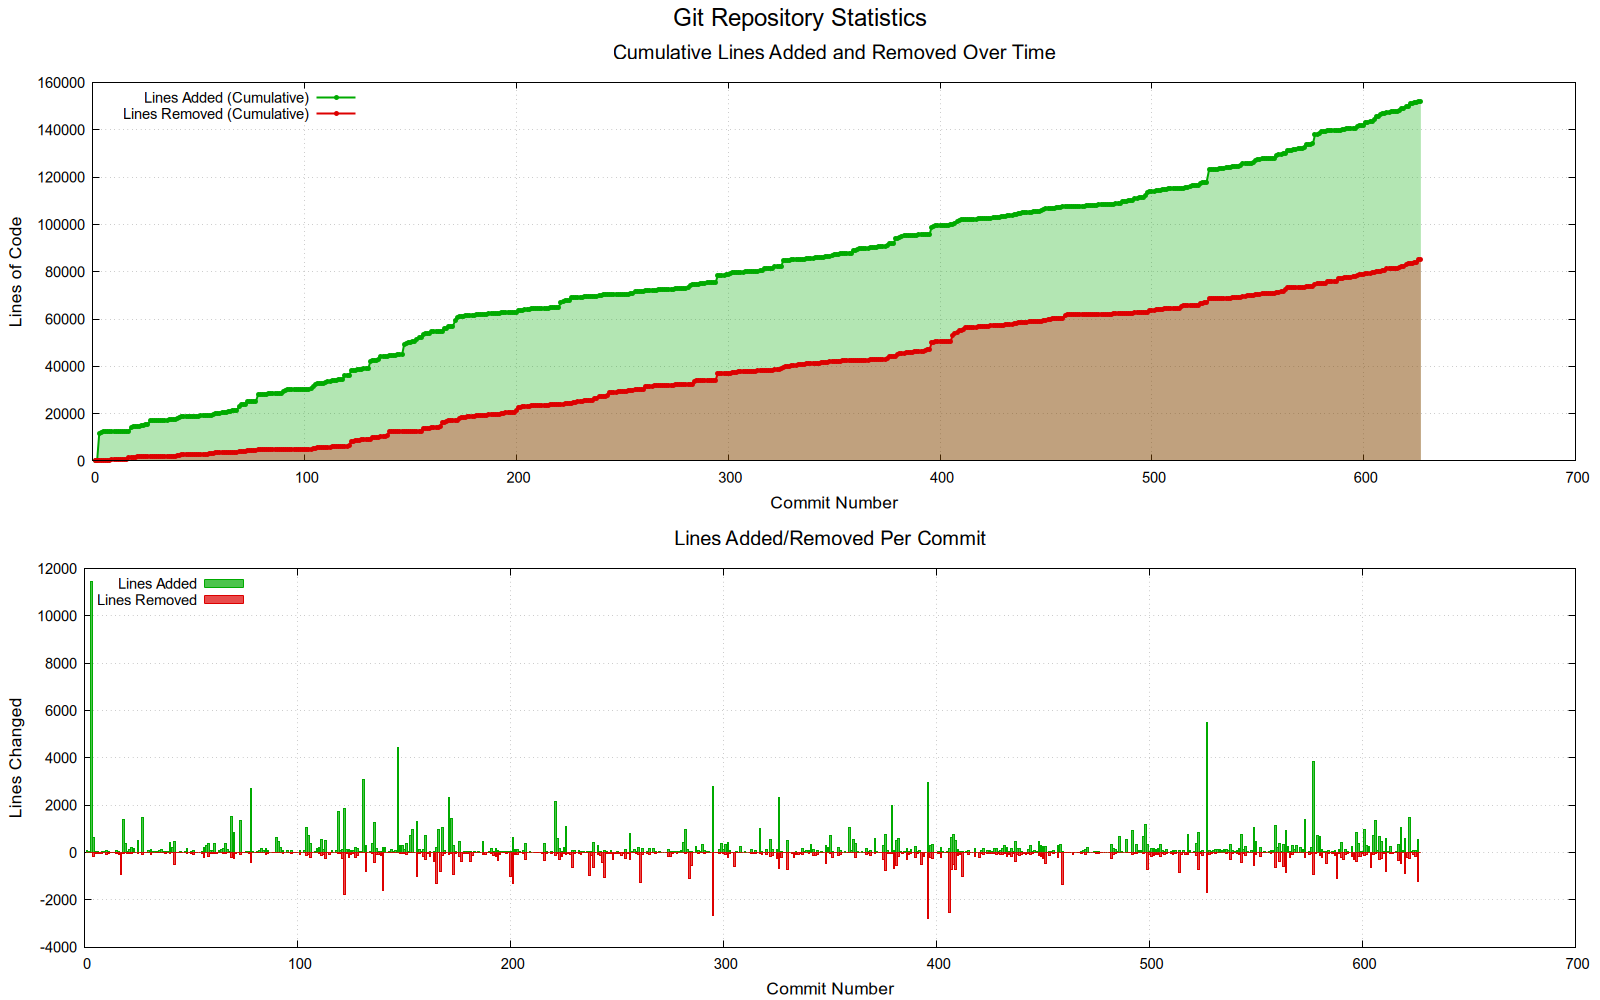
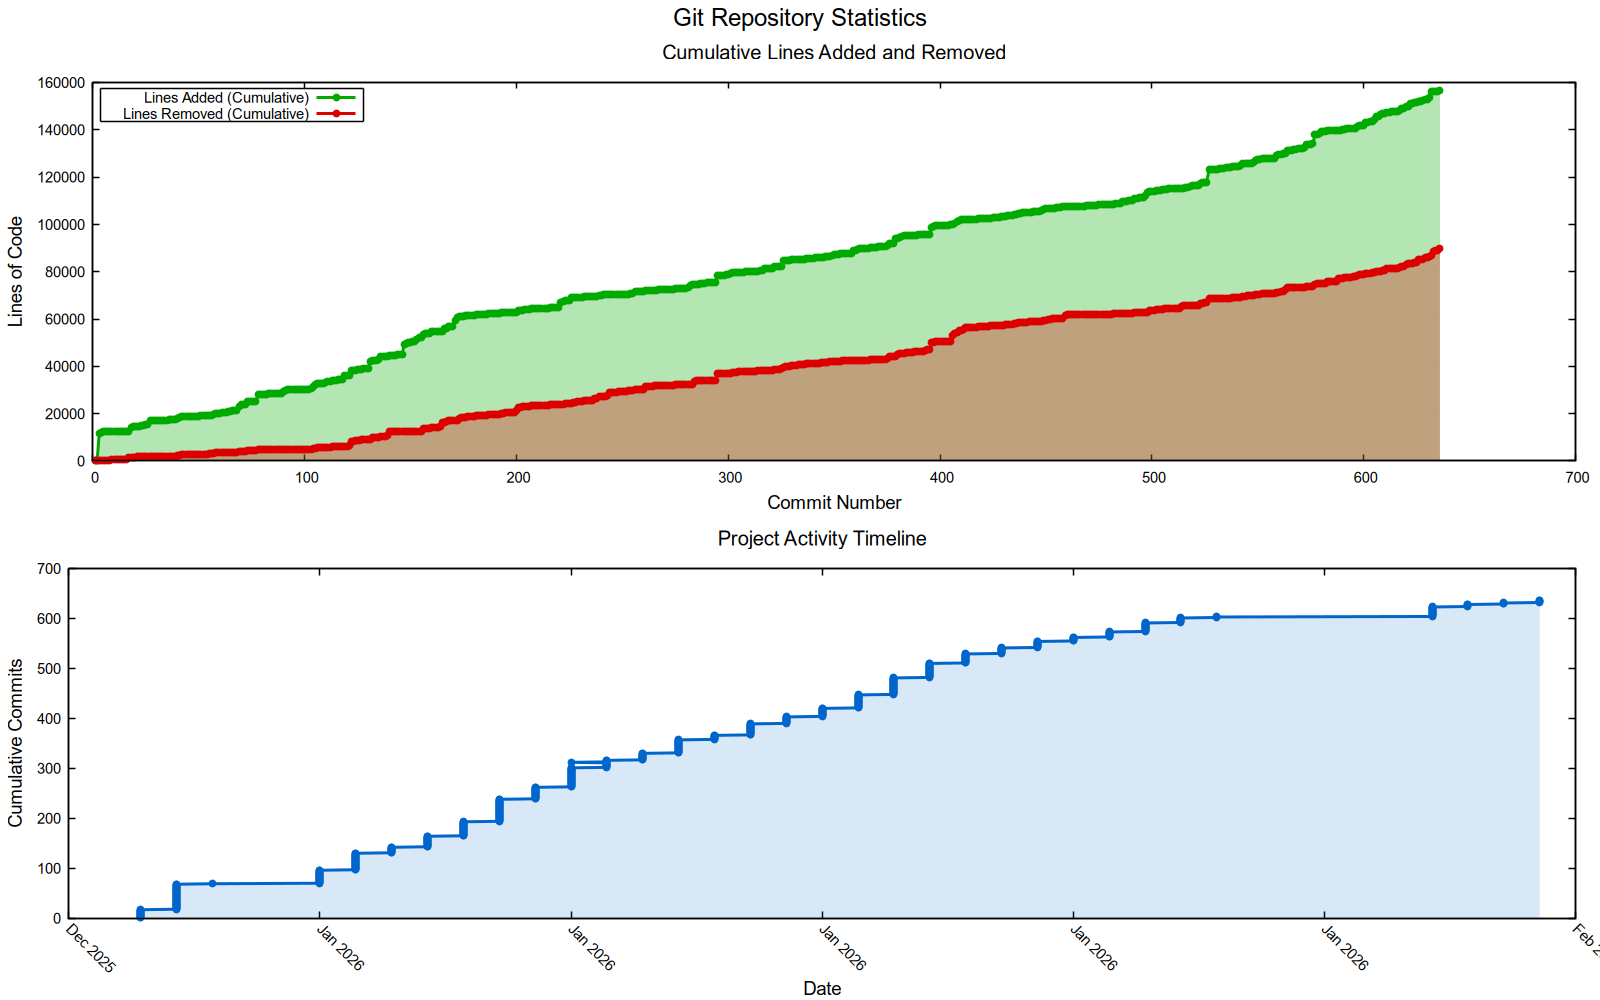
enhance repository statistics visualization with improved labels and new project activity timeline

diff --git a/tools/repo-statistics/main.go b/tools/repo-statistics/main.go
@@ -252,35 +252,39 @@ set output '%s'
 set multiplot layout 2,1 title "Git Repository Statistics" font ",18"
 
 # Top plot - Cumulative lines
-set xlabel "Commit Number" font ",13"
-set ylabel "Lines of Code" font ",13"
-set title "Cumulative Lines Added and Removed Over Time" font ",15"
-set grid
-set key left top
+set xlabel "Commit Number" font ",14"
+set ylabel "Lines of Code" font ",14"
+set title "Cumulative Lines Added and Removed" font ",15"
+set grid ytics xtics linetype 0 linewidth 0.5 linecolor rgb "#E0E0E0"
+set border linewidth 1.5
+set key left top box linewidth 1.5
 
 set style fill transparent solid 0.3
-set style line 1 lc rgb '#00AA00' lt 1 lw 2 pt 7 ps 0.5
-set style line 2 lc rgb '#DD0000' lt 1 lw 2 pt 7 ps 0.5
+set style line 1 lc rgb '#00AA00' lt 1 lw 3 pt 7 ps 0.8
+set style line 2 lc rgb '#DD0000' lt 1 lw 3 pt 7 ps 0.8
 
 plot '%s' using 1:5 with filledcurves x1 lc rgb '#00AA00' notitle, \
      '' using 1:5 with linespoints ls 1 title 'Lines Added (Cumulative)', \
      '' using 1:6 with filledcurves x1 lc rgb '#DD0000' notitle, \
      '' using 1:6 with linespoints ls 2 title 'Lines Removed (Cumulative)'
 
-# Bottom plot - Per-commit changes
-set xlabel "Commit Number" font ",13"
-set ylabel "Lines Changed" font ",13"
-set title "Lines Added/Removed Per Commit" font ",15"
-set grid ytics
-set key left top
+# Bottom plot - Commit count over time
+set xlabel "Date" font ",14"
+set ylabel "Cumulative Commits" font ",14"
+set title "Project Activity Timeline" font ",15"
+set xdata time
+set timefmt "%%Y-%%m-%%d"
+set format x "%%b %%Y"
+set xtics rotate by -45
+set grid ytics xtics linetype 0 linewidth 0.5 linecolor rgb "#E0E0E0"
+set border linewidth 1.5
+set key off
 
-set style fill solid 0.7
-set boxwidth 0.8
-set style line 3 lc rgb '#00AA00'
-set style line 4 lc rgb '#DD0000'
+set style line 5 lc rgb '#0066CC' lt 1 lw 3 pt 7 ps 0.8
+set style fill transparent solid 0.15
 
-plot '%s' using 1:3 with boxes ls 3 title 'Lines Added', \
-     '' using 1:(-$4) with boxes ls 4 title 'Lines Removed'
+plot '%s' using 2:1 with filledcurves x1 lc rgb '#0066CC' notitle, \
+     '' using 2:1 with linespoints ls 5 title 'Commits'
 
 unset multiplot
 
